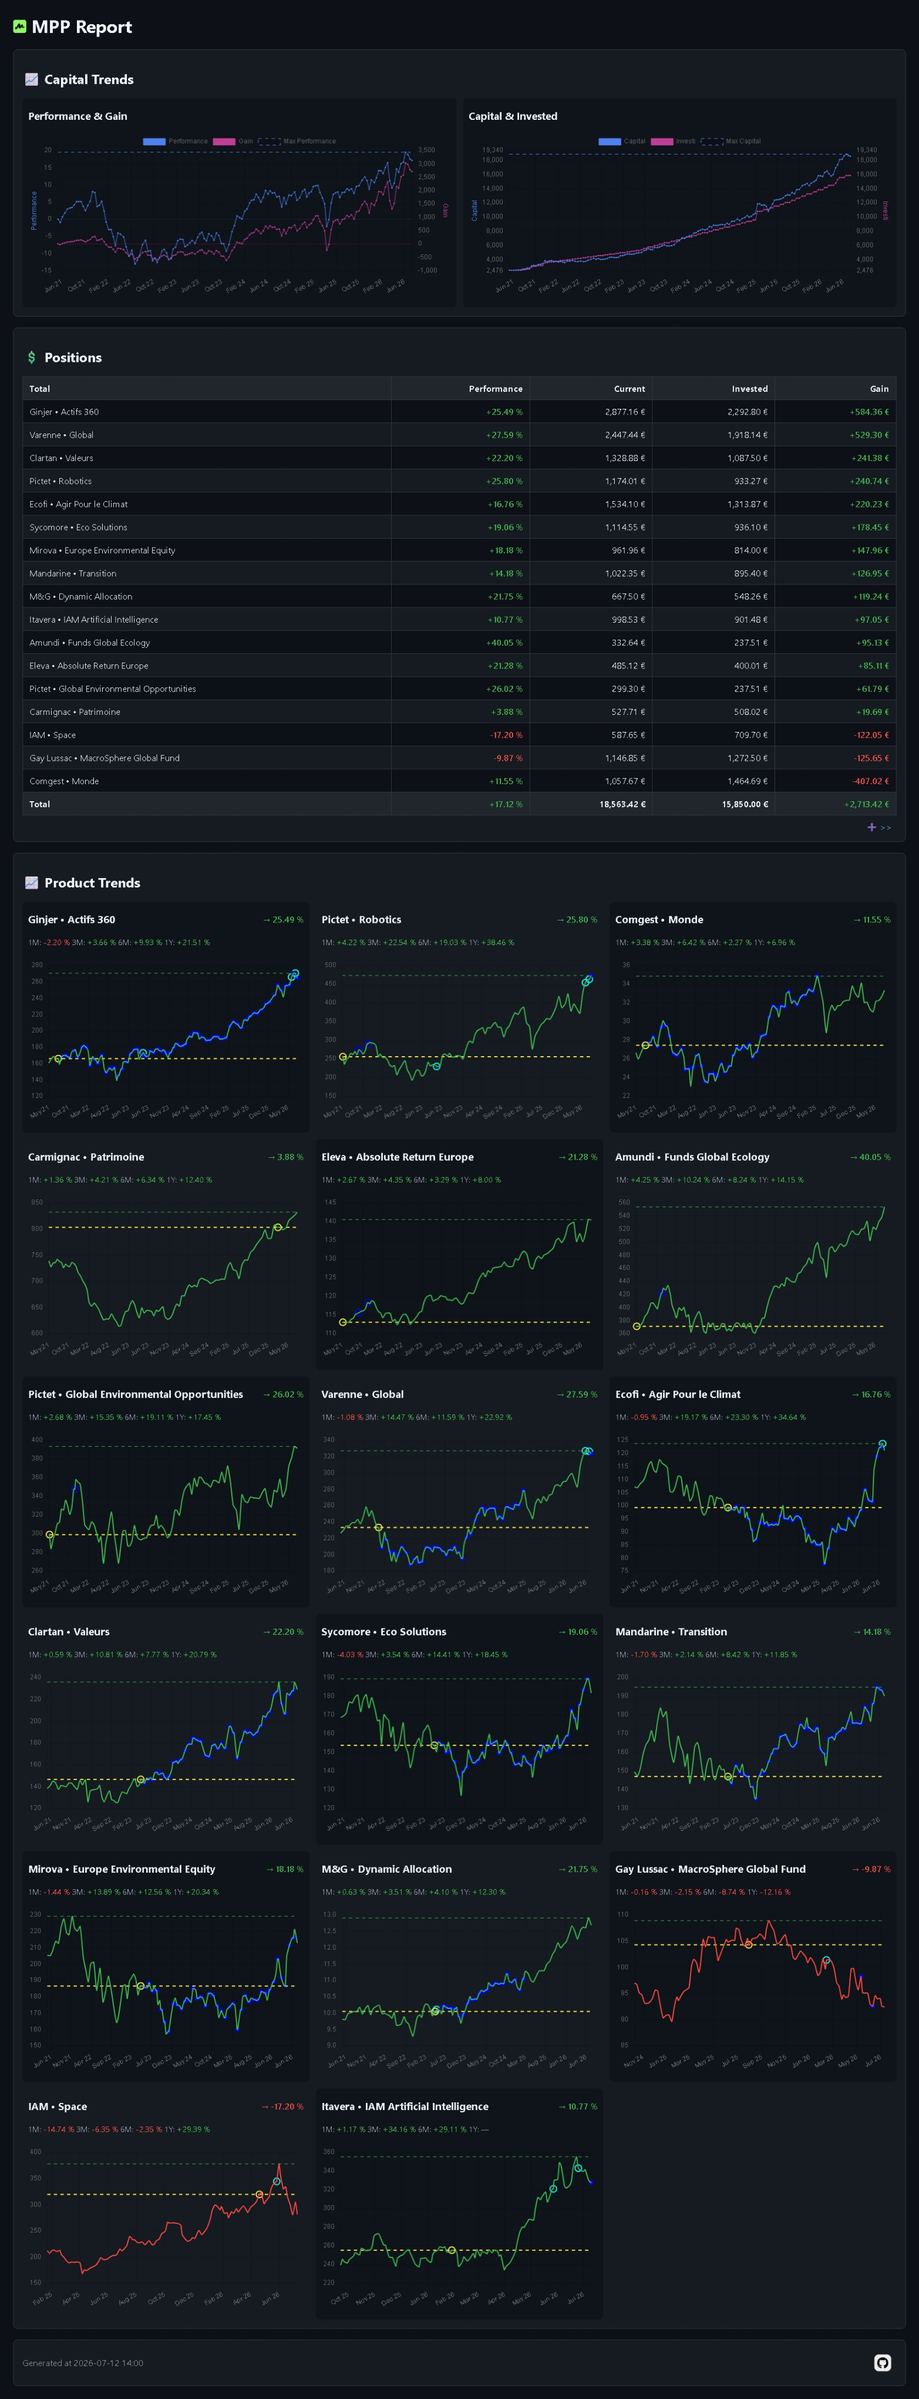
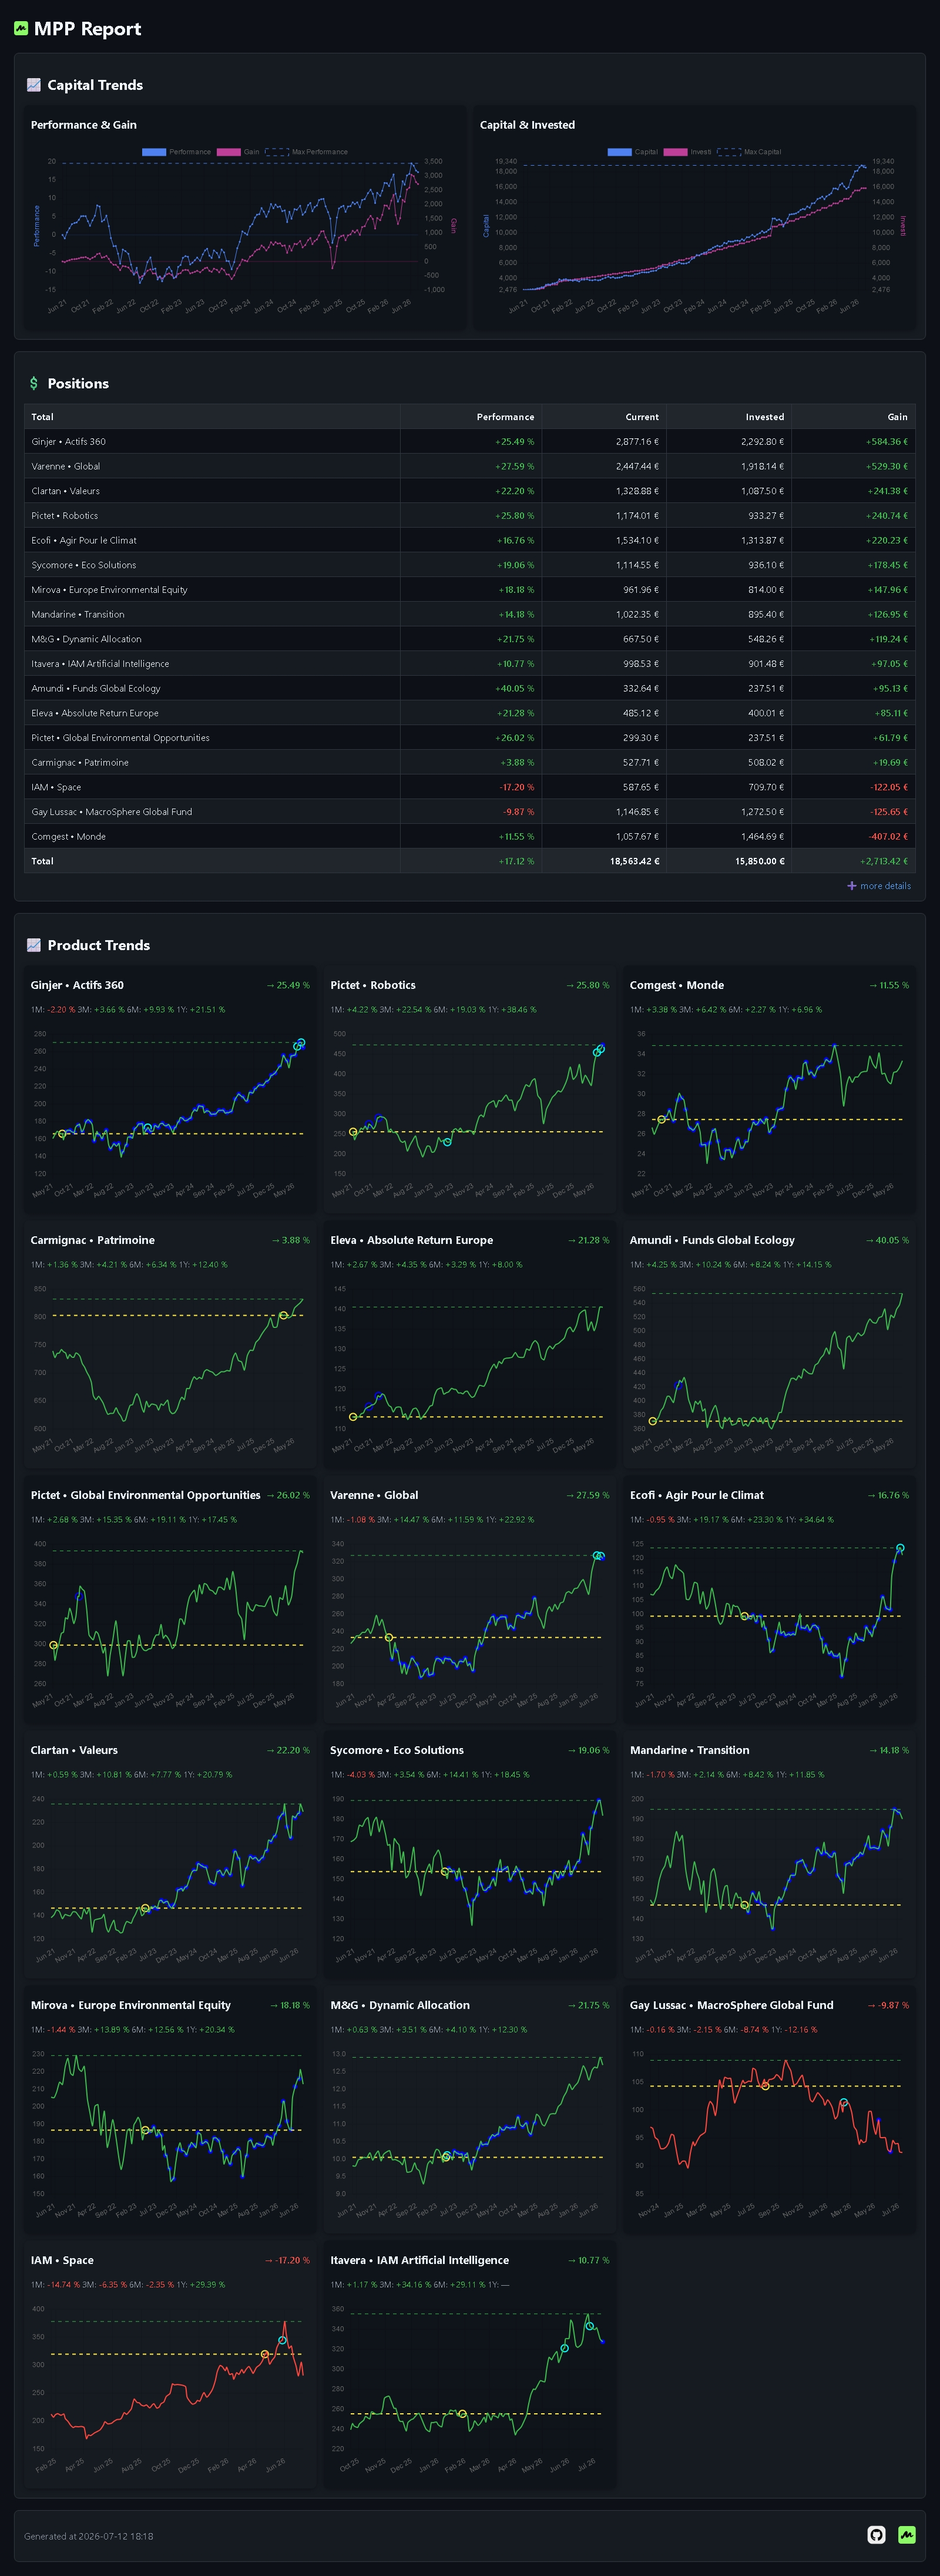
style: improve presentation

diff --git a/src/build_report/wwwroot/styles.css b/src/build_report/wwwroot/styles.css
@@ -119,6 +119,11 @@ tbody tr:hover {
     padding: 0 10px 80px;
     background: #0f141a;
     border-radius: 8px;
+    border: 1px solid transparent;
+    box-shadow: 0 2px 8px rgba(0, 0, 0, 0.35);
+    transition:
+        border-color .2s ease,
+        box-shadow .2s ease;
 }
 
 .chart-container-pt {
@@ -126,6 +131,11 @@ tbody tr:hover {
     max-height: 300px;
     padding: 0 10px 120px;
     border-radius: 8px;
+    border: 1px solid transparent;
+    box-shadow: 0 2px 8px rgba(0, 0, 0, 0.35);
+    transition:
+        border-color .2s ease,
+        box-shadow .2s ease;
 }
 
 .chart-container-pt.odd {
@@ -134,6 +144,15 @@ tbody tr:hover {
 
 .chart-container-pt.even {
     background: #0f141a;
+}
+
+.chart-container-ct:hover,
+.chart-container-pt:hover
+{
+    border-color: #58a6ff55;
+    box-shadow:
+        0 4px 16px rgba(0, 0, 0, 0.45),
+        0 0 0 1px rgba(88, 166, 255, 0.15);
 }
 
 /* ===========================
@@ -159,8 +178,10 @@ tbody tr:hover {
     justify-content: space-between;
 }
 
-.footer img {
-    display: block;
+.footer-links {
+    display: flex;
+    align-items: center;
+    gap: 12px;
 }
 
 /* ===========================

diff --git a/src/build_report/builder.py b/src/build_report/builder.py
@@ -96,9 +96,14 @@ def _render_html(
   </div>
   <div class="card footer">
     <span class="muted">Generated at {generated_at}</span>
-    <a href="https://github.com/dhabierre/mpp-tools" target="_blank">
-      <img src="github.png" alt="GitHub" title="GitHub Project" width="50">
-    </a>
+    <div class="footer-links">
+        <a href="https://github.com/dhabierre/mpp-tools" target="_blank" rel="noopener noreferrer">
+        <img src="github.png" alt="GitHub" title="GitHub Project" width="50">
+        </a>
+        <a href="https://www.monpetitplacement.fr/" target="_blank" rel="noopener noreferrer">
+        <img src="favicon.svg" title="Mon Petit Placement" width="30" />
+        </a>
+    </div>
   </div>
 </body>
 </html>
@@ -475,7 +480,7 @@ def _render_positions(
   </tfoot>
 </table>
 <div class="right" style="margin-top: 10px; margin-right: 8px;">
-    <a href="javascript:void(0);" id="toggle-columns">➕ &gt;&gt;</a>
+    <a href="javascript:void(0);" id="toggle-columns">➕ more details</a>
 </div>
 <script>
     const button = document.getElementById("toggle-columns");
@@ -483,7 +488,7 @@ def _render_positions(
         const details = document.querySelectorAll(".details-col");
         const visible = details[0].classList.contains("show");
         details.forEach(col => col.classList.toggle("show"));
-        button.textContent = visible ? "➕ >>" : "➖ <<";
+        button.textContent = visible ? "➕ more details" : "➖ less details";
     }});
 </script>
 """
